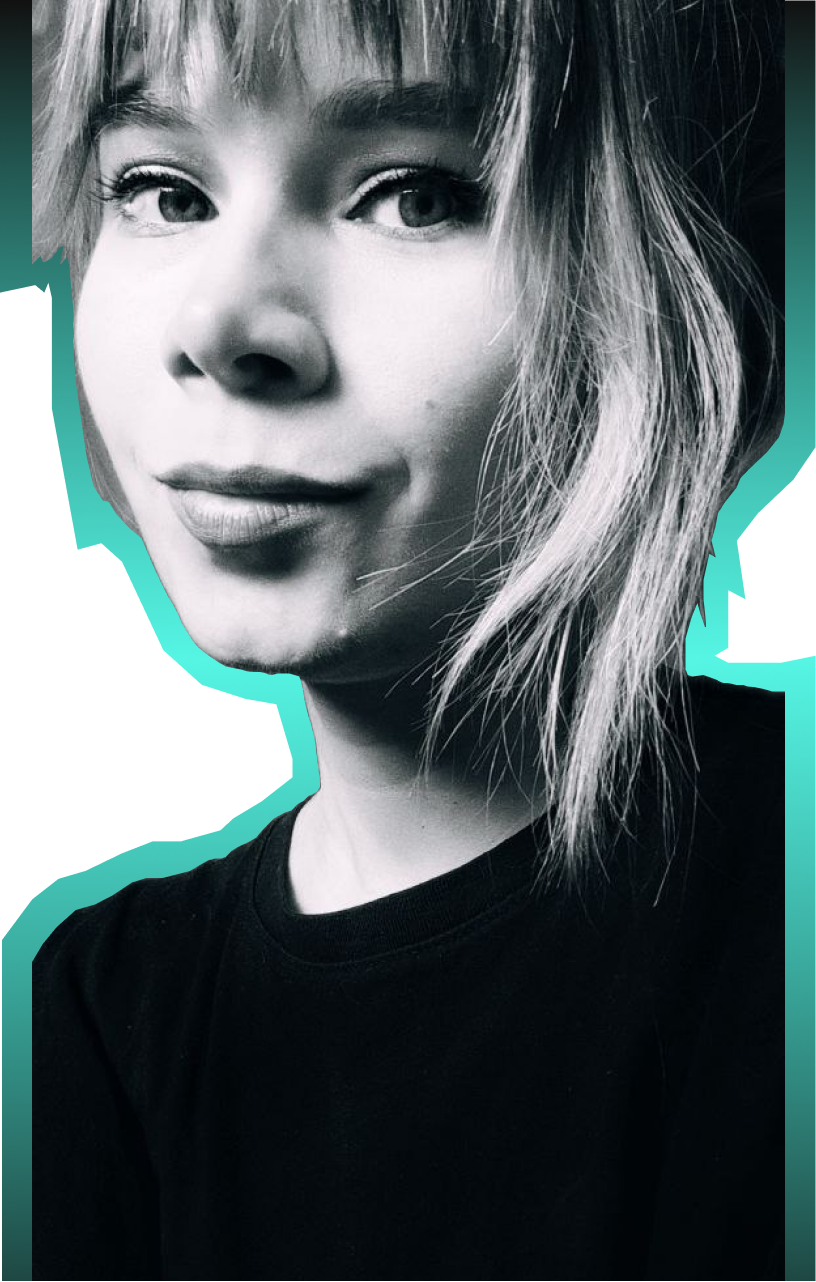
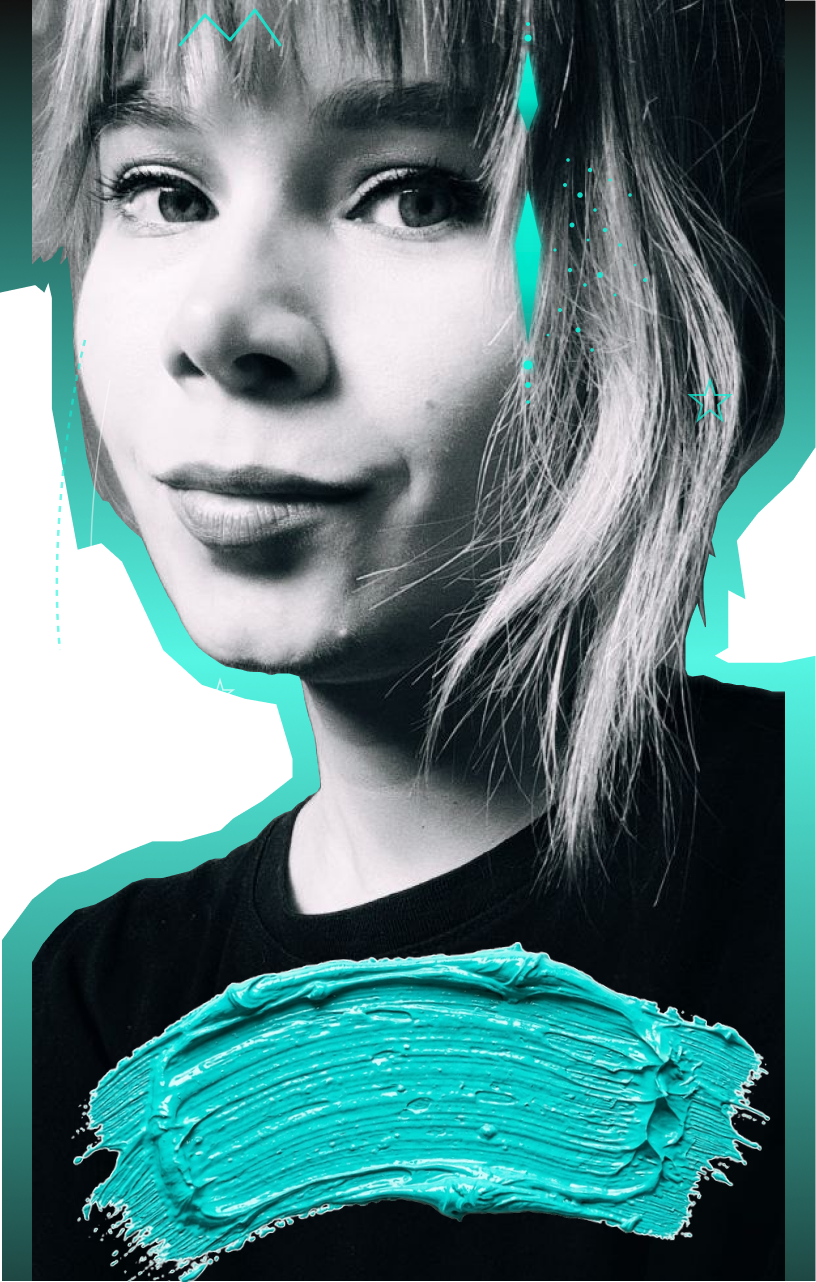
feat(hero): add default background splatters and upgraded portrait artwork with paint smear, harlequin eye and sketch doodles

diff --git a/components/sections/hero.tsx b/components/sections/hero.tsx
@@ -6,16 +6,30 @@ import { useState, useRef, useEffect, useCallback } from "react";
 
 type SplatterData = {
   id: number;
-  x: number;
-  y: number;
+  x: number | string;
+  y: number | string;
   rotation: number;
   scale: number;
   flipX: number;
   flipY: number;
+  isInitial?: boolean;
 };
 
+const INITIAL_SPLATTERS: SplatterData[] = [
+  // 1. Large splash behind title / right side
+  { id: 1, x: "72%", y: "42%", rotation: 25, scale: 2.6, flipX: 1, flipY: 1, isInitial: true },
+  // 2. Splash behind top-right of headline
+  { id: 2, x: "86%", y: "22%", rotation: -35, scale: 1.8, flipX: -1, flipY: 1, isInitial: true },
+  // 3. Splash behind subtitle / bottom-center
+  { id: 3, x: "62%", y: "68%", rotation: 45, scale: 2.0, flipX: 1, flipY: -1, isInitial: true },
+  // 4. Splash behind photo silhouette / neck area
+  { id: 4, x: "32%", y: "52%", rotation: -18, scale: 2.3, flipX: -1, flipY: 1, isInitial: true },
+  // 5. Splash accent near bottom-left
+  { id: 5, x: "18%", y: "76%", rotation: 80, scale: 1.5, flipX: 1, flipY: 1, isInitial: true },
+];
+
 export default function Hero() {
-  const [splatters, setSplatters] = useState<SplatterData[]>([]);
+  const [splatters, setSplatters] = useState<SplatterData[]>(INITIAL_SPLATTERS);
   const mousePosRef = useRef({ x: 0, y: 0 });
   const [isHovering, setIsHovering] = useState(false);
   const containerRef = useRef<HTMLDivElement>(null);
@@ -33,12 +47,11 @@ export default function Hero() {
     if (!isHovering) return;
 
     let timeoutId: NodeJS.Timeout;
-    const delays = [500, 1500, 3000, 2300, 4000, 2700, 3700];
+    const delays = [400, 1200, 2400, 1800, 3200, 2200, 3000];
     let stepIndex = 0;
 
     const scheduleNext = () => {
       const currentDelay = delays[stepIndex % delays.length];
-      const isFirst = stepIndex === 0;
       
       timeoutId = setTimeout(() => {
         setSplatters(prev => {
@@ -47,12 +60,15 @@ export default function Hero() {
             x: mousePosRef.current.x,
             y: mousePosRef.current.y,
             rotation: Math.random() * 360,
-            // First splatter is small (0.3-0.5), subsequent are normal size (0.5-2.0)
-            scale: isFirst ? 0.3 + Math.random() * 0.2 : 0.5 + Math.random() * 1.5,
+            scale: 0.6 + Math.random() * 1.6,
             flipX: Math.random() > 0.5 ? -1 : 1,
             flipY: Math.random() > 0.5 ? -1 : 1,
+            isInitial: false,
           };
-          return [...prev, newSplat].slice(-15); // keep max 15 splatters
+          // Keep initial splatters + up to 12 interactive splatters
+          const initials = prev.filter(s => s.isInitial);
+          const dynamic = prev.filter(s => !s.isInitial).slice(-12);
+          return [...initials, ...dynamic, newSplat];
         });
         
         stepIndex++;
@@ -83,6 +99,44 @@ export default function Hero() {
 
         {/* Seamless ultra-smooth blend gradient at the top (covers paper, but NOT photo) */}
         <div className="absolute top-0 left-0 right-0 w-full h-[85vh] bg-gradient-to-b from-[#111111] from-[10%] via-[#111111]/40 via-[60%] to-transparent z-[5] pointer-events-none" />
+
+        {/* Mobile Splatter Backdrop Layer */}
+        <div className="absolute inset-0 z-0 pointer-events-none overflow-hidden">
+          <div
+            className="absolute mix-blend-screen"
+            style={{
+              left: "45%",
+              top: "30%",
+              transform: "translate(-50%, -50%) rotate(25deg) scale(2.2)",
+              width: 300,
+              height: 300
+            }}
+          >
+            <img 
+              src="/splatters/splatter_1.png" 
+              alt="Splatter" 
+              className="w-full h-full object-contain pointer-events-none"
+              style={{ filter: "sepia(1) saturate(10) hue-rotate(140deg) brightness(1.2) opacity(0.35)" }}
+            />
+          </div>
+          <div
+            className="absolute mix-blend-screen"
+            style={{
+              left: "75%",
+              top: "65%",
+              transform: "translate(-50%, -50%) rotate(-40deg) scale(1.8)",
+              width: 300,
+              height: 300
+            }}
+          >
+            <img 
+              src="/splatters/splatter_1.png" 
+              alt="Splatter" 
+              className="w-full h-full object-contain pointer-events-none"
+              style={{ filter: "sepia(1) saturate(10) hue-rotate(140deg) brightness(1.2) opacity(0.3)" }}
+            />
+          </div>
+        </div>
 
         {/* Full screen photo cutout bounded strictly below the header */}
         <div className="absolute top-[5rem] bottom-0 left-0 right-0 z-10 pointer-events-none">
@@ -140,7 +194,11 @@ export default function Hero() {
           {splatters.map((splat) => (
             <motion.div
               key={splat.id}
-              initial={{ scaleX: 0, scaleY: 0, opacity: 0 }}
+              initial={
+                splat.isInitial
+                  ? { scaleX: splat.scale * splat.flipX, scaleY: splat.scale * splat.flipY, opacity: 1 }
+                  : { scaleX: 0, scaleY: 0, opacity: 0 }
+              }
               animate={{ scaleX: splat.scale * splat.flipX, scaleY: splat.scale * splat.flipY, opacity: 1 }}
               transition={{ type: "spring", damping: 15, stiffness: 100 }}
               className="absolute mix-blend-screen"
@@ -150,15 +208,15 @@ export default function Hero() {
                 x: "-50%",
                 y: "-50%",
                 rotate: splat.rotation,
-                width: 300,
-                height: 300
+                width: 320,
+                height: 320
               }}
             >
               <img 
                 src="/splatters/splatter_1.png" 
                 alt="Splatter" 
                 className="w-full h-full object-contain pointer-events-none"
-                style={{ filter: "sepia(1) saturate(10) hue-rotate(140deg) brightness(1.2) opacity(0.3)" }}
+                style={{ filter: "sepia(1) saturate(10) hue-rotate(140deg) brightness(1.2) opacity(0.35)" }}
               />
             </motion.div>
           ))}
